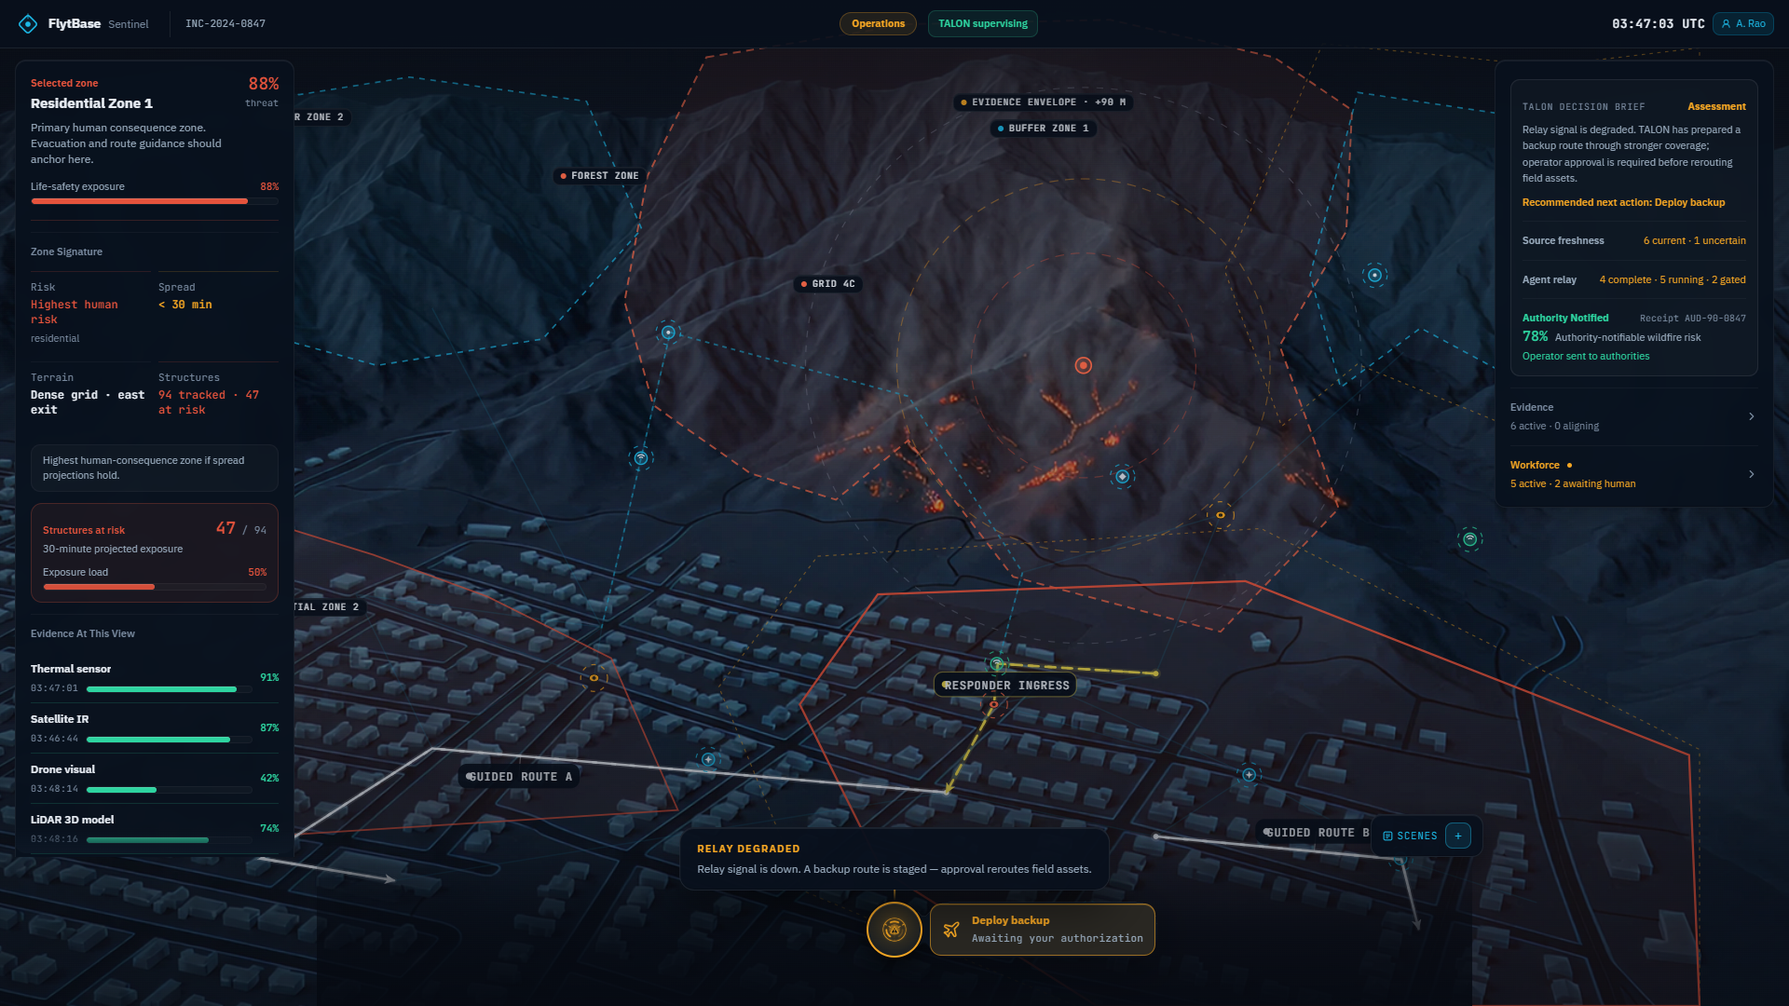
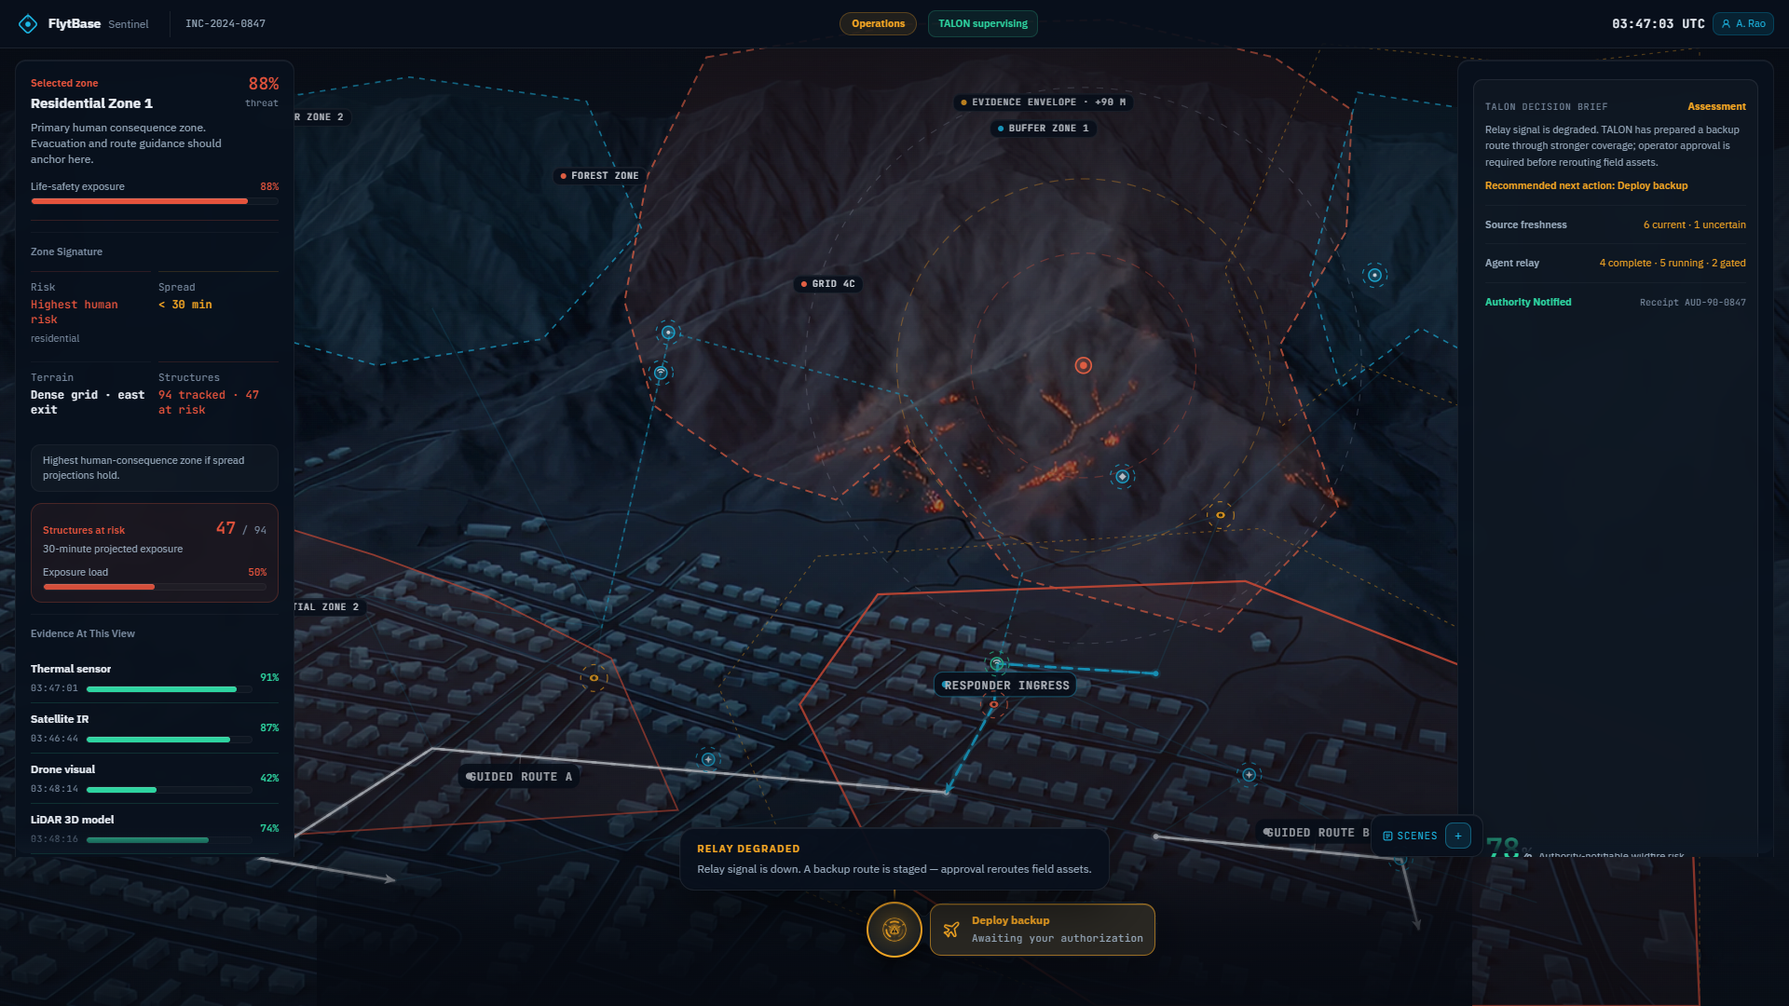
M4 craft: yellow retired (3-lead palette), tnum on mono telemetry, asymmetric rail widths, right-rail focal 32px packet %, navbar chip recipe consolidated, map atmosphere strengthened, hardcoded zIndex -> layer.*, rail tab labels truncate

diff --git a/src/app/components/SentinelShell.tsx b/src/app/components/SentinelShell.tsx
@@ -84,6 +84,13 @@ import {
 
 const SCREEN_INSET = shellTokens.screenInset;
 const NAVBAR_H = shellTokens.navHeight;
+/*
+ * The two rails have different jobs and different densities. The TALON rail
+ * (right) is the protagonist — the copilot brief, workforce, and the densest
+ * evidence summaries. The observation rail (left) is supporting — the operator
+ * inspects there. Same width at narrow viewports (readability first); width is
+ * the cheapest hierarchy there is.
+ */
 const LEFT_RAIL_W = shellTokens.railWidth;
 const RIGHT_RAIL_W = shellTokens.railWidth;
 const PANEL_TOP = NAVBAR_H + shellTokens.railGap + 4;
@@ -202,6 +209,8 @@ export function SentinelShell() {
 
   const adaptiveRailWidth =
     viewportWidth <= 1280 ? 260 : viewportWidth <= 1366 ? 280 : LEFT_RAIL_W;
+  const adaptiveTalonRailWidth =
+    viewportWidth <= 1280 ? 260 : viewportWidth <= 1366 ? 300 : 340;
 
   usePopoverDismissal({
     open: timelineOpen,
@@ -968,7 +977,7 @@ export function SentinelShell() {
           position: "absolute",
           top: PANEL_TOP,
           right: SCREEN_INSET,
-          width: adaptiveRailWidth,
+          width: adaptiveTalonRailWidth,
           bottom: railBottomInset,
           zIndex: layer.rail,
           display: "flex",
@@ -1864,7 +1873,7 @@ function TopOverlay({
         left: "50%",
         transform: "translateX(-50%)",
         width: 560,
-        zIndex: 50,
+        zIndex: layer.alert,
         ...material.overlay,
         border: `1px solid ${tone}4D`,
         padding: "14px 18px 14px 22px",
@@ -1951,7 +1960,7 @@ function CompactPanel({
         width: 440,
         maxHeight: `calc(100dvh - ${NAVBAR_H + 26 + shellTokens.screenInset + 160}px)`,
         overflowY: "auto",
-        zIndex: 50,
+        zIndex: layer.alert,
         ...material.overlay,
         // Severity still arrives on the border; the material never changes.
         border: `1px solid ${tone}4D`,
@@ -2033,7 +2042,7 @@ function AlertPopup({ onDispatch, onDismiss }: { onDispatch: () => void; onDismi
         left: "50%",
         transform: "translateX(-50%)",
         width: 520,
-        zIndex: 60,
+        zIndex: layer.modal,
         ...material.overlay,
         border: `1px solid ${T.amber}44`,
         padding: "20px 22px 18px",
@@ -2331,7 +2340,7 @@ function VerifyLiveFeed({
         left: railWidth + SCREEN_INSET + 18,
         right: railWidth + SCREEN_INSET + 18,
         bottom: bottomInset,
-        zIndex: 25,
+        zIndex: layer.centerSurface,
         borderRadius: radius.overlay,
         overflow: "hidden",
         border: mapLoaded
@@ -2853,7 +2862,7 @@ function deriveQuickActions(draft: ShellDraft, investigationElapsed: number): Ac
           "Thermal + LiDAR drone monitors the active fire edge.", T.red, true),
         mk("stage-responder-guidance", "Guide responders",
           zoneRequired ? "disabled" : missionByZone("guide-emergency-personnel") ? "complete" : responderRecommended ? "recommended" : "available",
-          "Ingress guidance and live relay support for field personnel.", T.yellow, true),
+          "Ingress guidance and live relay support for field personnel.", T.cyan, true),
         mk("stage-residential-evacuation", "Prepare evacuation",
           zoneRequired ? "disabled" : missionByZone("prepare-residential-evacuation") ? "complete" : evacRecommended ? "recommended" : "available",
           "Civilian-guidance drone with speakers and lighting.", T.fire, true),
@@ -2919,7 +2928,7 @@ function deriveQuickActions(draft: ShellDraft, investigationElapsed: number): Ac
           "Drone-guided egress path with speakers and lighting for residents.", T.cyan),
         mk("deploy-navigation-drone", "Guide personnel",
           draft.responderRouteActive ? "complete" : "recommended",
-          "Responder-guidance drone via safest ingress corridor.", T.yellow),
+          "Responder-guidance drone via safest ingress corridor.", T.cyan),
         mk("notify-teams", "Notify teams", draft.teamsNotified ? "complete" : "available",
           "Reconfirm field team staging readiness.", T.textSecondary),
       ];

diff --git a/src/app/pages/ComponentsPage.tsx b/src/app/pages/ComponentsPage.tsx
@@ -69,7 +69,7 @@ export default function ComponentsPage() {
                   <div style={{ display: "flex", flexWrap: "wrap", gap: 12 }}>
                     <ActionTile label="Deploy survey"    status="recommended" tone={T.cyan}   />
                     <ActionTile label="Stage perimeter"  status="available"   tone={T.red}    />
-                    <ActionTile label="Guide responders" status="available"   tone={T.yellow} />
+                    <ActionTile label="Guide responders" status="available"   tone={T.cyan} />
                     <ActionTile label="Prepare evacuation" status="disabled"  tone={T.fire}   />
                     <ActionTile label="Relay field intel" status="available"  tone={T.cyan}   />
                   </div>
@@ -93,7 +93,7 @@ export default function ComponentsPage() {
                   <div style={{ fontSize: 11, color: T.textMuted, marginBottom: 8 }}>Primary Row</div>
                   <div style={{ display: "flex", gap: 12 }}>
                     <ActionTile label="Residential evac drone" status="recommended" tone={T.cyan}          />
-                    <ActionTile label="Guide personnel"        status="recommended" tone={T.yellow}        />
+                    <ActionTile label="Guide personnel"        status="recommended" tone={T.cyan}        />
                     <ActionTile label="Deploy backup"          status="recommended" tone={T.amber}  note="signal-degraded" />
                   </div>
                 </div>
@@ -216,8 +216,8 @@ export default function ComponentsPage() {
               </div>
               <div>
                 <SubLabel>5. Notify Teams</SubLabel>
-                <InlineModal title="Alert Ground Teams" subtitle="Notify teams with current assignments and staging instructions." accentColor={T.yellow} confirmLabel="Confirm Alert" icon="📋">
-                  <div style={{ background: "rgba(255,209,102,0.07)", border: `1px solid ${T.yellow}22`, borderRadius: 12, padding: "12px 14px" }}>
+                <InlineModal title="Alert Ground Teams" subtitle="Notify teams with current assignments and staging instructions." accentColor={T.cyan} confirmLabel="Confirm Alert" icon="📋">
+                  <div style={{ background: "rgba(28,184,230,0.07)", border: `1px solid ${T.cyan}22`, borderRadius: 12, padding: "12px 14px" }}>
                     {[{ t: "Alpha Lead", d: "Perimeter control – Forest North" }, { t: "Bravo Team", d: "Structure protect – Buffer East" }, { t: "Charlie", d: "Medical & route support – Standby" }].map(({ t, d }) => (
                       <div key={t} style={{ display: "flex", justifyContent: "space-between", padding: "7px 0", borderBottom: "1px solid rgba(255,255,255,0.05)" }}>
                         <span style={{ fontFamily: font.sans, fontSize: 12, fontWeight: 600, color: T.textPrimary }}>{t}</span>
@@ -397,7 +397,7 @@ export default function ComponentsPage() {
               { name: "Red",           value: T.red,           usage: "Danger, contain mode, abort" },
               { name: "Fire",          value: T.fire,          usage: "Emergency, rescue mode, evacuation" },
               { name: "Teal",          value: T.teal,          usage: "Safe, available, complete states" },
-              { name: "Yellow",        value: T.yellow,        usage: "Ground teams, field coordination" },
+              { name: "Cyan (guidance)", value: T.cyan,        usage: "Ground teams, field coordination" },
               { name: "Text Primary",  value: T.textPrimary,   usage: "Headlines, labels, active values" },
               { name: "Text Secondary",value: T.textSecondary, usage: "Body text, descriptions, captions" },
               { name: "Text Muted",    value: T.textMuted,     usage: "Timestamps, section labels, disabled" },

diff --git a/src/app/components/ActionModal.tsx b/src/app/components/ActionModal.tsx
@@ -54,7 +54,7 @@ export const MISSION_BRIEF_DATA: Partial<Record<QuickActionId, MissionBriefConfi
     talonRationale: "A relay-guidance asset marks the safest responder ingress corridor. The eastern buffer lane has the clearest terrain and the best signal strength for live relay back to command.",
     coverageNote: "Relay-01 will anchor at the buffer zone ingress point and broadcast a combined audio + light guidance signal for incoming teams.",
     zoneHint: "buffer-east",
-    tone: T.yellow,
+    tone: T.cyan,
     droneClass: "guidance-relay",
     defaultZoneId: "buffer-east",
   },
@@ -84,7 +84,7 @@ export const MISSION_BRIEF_DATA: Partial<Record<QuickActionId, MissionBriefConfi
     talonRationale: "Active rescue operations require a dedicated navigation drone along the primary responder corridor. The eastern buffer has the clearest ingress lane, confirmed by TALON terrain analysis.",
     coverageNote: "Relay-01 will fly the corridor marking the route with strobe signaling and live audio comms for field team coordination.",
     zoneHint: "buffer-east",
-    tone: T.yellow,
+    tone: T.cyan,
     droneClass: "guidance-relay",
     defaultZoneId: "buffer-east",
   },
@@ -457,7 +457,7 @@ function EvacuationModal({ state, onClose, onConfirm }: { state: ShellState; onC
             <Label>Select Teams to Deploy</Label>
             <div style={{ display: "flex", flexWrap: "wrap", gap: 8 }}>
               {state.groundTeams.map((t) => (
-                <Chip key={t.id} label={t.name} selected={selectedTeamIds.includes(t.id)} onClick={() => toggleTeam(t.id)} color={T.yellow} />
+                <Chip key={t.id} label={t.name} selected={selectedTeamIds.includes(t.id)} onClick={() => toggleTeam(t.id)} color={T.cyan} />
               ))}
             </div>
           </div>
@@ -722,10 +722,10 @@ function NotifyAuthoritiesModal({ onClose, onConfirm }: { onClose: () => void; o
 function NotifyTeamsModal({ onClose, onConfirm }: { onClose: () => void; onConfirm: () => void }) {
   return (
     <div>
-      <ModalHeader title="Alert Ground Teams" subtitle="Notify teams with current assignments and staging instructions." accentColor={T.yellow} icon={<OperationalIcon actionId="notify-teams" color={T.yellow} size={18} />} />
+      <ModalHeader title="Alert Ground Teams" subtitle="Notify teams with current assignments and staging instructions." accentColor={T.cyan} icon={<OperationalIcon actionId="notify-teams" color={T.cyan} size={18} />} />
 
       <div style={{ padding: "16px 24px" }}>
-        <div style={{ background: tint(T.yellow, 0.07), border: `1px solid ${tint(T.yellow, 0.28)}`, borderRadius: radius.panel, padding: "14px" }}>
+        <div style={{ background: tint(T.cyan, 0.07), border: `1px solid ${tint(T.cyan, 0.28)}`, borderRadius: radius.panel, padding: "14px" }}>
           {[
             { team: "Alpha Lead", detail: "Perimeter control – Forest North" },
             { team: "Bravo Team", detail: "Structure protection – Buffer East" },
@@ -740,7 +740,7 @@ function NotifyTeamsModal({ onClose, onConfirm }: { onClose: () => void; onConfi
       </div>
 
       <Divider />
-      <ModalFooter onClose={onClose} onConfirm={onConfirm} confirmLabel="Confirm Alert" confirmColor={T.yellow} />
+      <ModalFooter onClose={onClose} onConfirm={onConfirm} confirmLabel="Confirm Alert" confirmColor={T.cyan} />
     </div>
   );
 }

diff --git a/src/app/components/panels/TalonCopilotPanel.tsx b/src/app/components/panels/TalonCopilotPanel.tsx
@@ -35,7 +35,7 @@ function getStatusColor(status: EvidenceSource["status"]): string {
   switch (status) {
     case "active": return T.teal;
     case "pending": return T.textMuted;
-    case "stale": return T.yellow;
+    case "stale": return T.amber;
     case "failed": return T.red;
     case "missing": return T.red;
     default: return T.textMuted;
@@ -445,7 +445,7 @@ function getCategoryMeta(category: TalonAgentTask["category"]) {
     case "operations":
       return { label: "Operations", color: T.red, fill: tone.danger.fill, border: tone.danger.border };
     case "governance":
-      return { label: "Governance", color: T.yellow, fill: tone.caution.fill, border: tone.caution.border };
+      return { label: "Governance", color: T.amber, fill: tone.caution.fill, border: tone.caution.border };
     default:
       return { label: "Agent", color: T.textMuted, fill: tone.neutral.fill, border: tone.neutral.border };
   }
@@ -1462,8 +1462,25 @@ function IntelligenceBrief({
           </div>
 
           <div style={{ display: "flex", alignItems: "baseline", gap: space.sm, marginBottom: space.xs }}>
-            <span style={{ fontFamily: font.mono, fontSize: typeScale.subhead, fontWeight: typeWeight.heavy, color: packetTone, lineHeight: 1 }}>
-              {packet.confidence}%
+            {/*
+              * Focal contract: the right rail's lone ≥26px read. A 32px
+              * packet confidence survives the portfolio's ~0.65× downscale at
+              * ~20px, which is the read that the rest of the rail honestly
+              * recedes around.
+              */}
+            <span
+              style={{
+                fontFamily: font.mono,
+                fontFeatureSettings: '"tnum"',
+                fontSize: 32,
+                lineHeight: 36,
+                fontWeight: typeWeight.heavy,
+                color: packetTone,
+                letterSpacing: "-0.02em",
+              }}
+            >
+              {packet.confidence}
+              <span style={{ fontSize: 18, lineHeight: 1, marginLeft: 2, color: T.textSecondary, fontWeight: typeWeight.semibold }}>%</span>
             </span>
             <span style={{ fontFamily: font.sans, fontSize: typeScale.label, color: T.textSecondary, lineHeight: 1.4 }}>
               {packet.escalationLevel}

diff --git a/src/app/map/SpatialMapCanvas.tsx b/src/app/map/SpatialMapCanvas.tsx
@@ -391,10 +391,10 @@ export function SpatialMapCanvas({
 
   const mapFilter =
     showContain || showRescue
-      ? "saturate(0.96) brightness(0.84)"
+      ? "saturate(0.92) brightness(0.78)"
       : isPreVerify
-        ? "saturate(0.6) brightness(0.6) hue-rotate(180deg)"
-        : "saturate(0.92) brightness(0.74)";
+        ? "saturate(0.58) brightness(0.54) hue-rotate(180deg)"
+        : "saturate(0.86) brightness(0.66)";
 
   const adjustZoneMargin = (delta: number) => {
     if (!onUpdateState || !activeZoneId) return;
@@ -638,7 +638,7 @@ export function SpatialMapCanvas({
           position: "absolute",
           inset: 0,
           pointerEvents: "none",
-          background: `linear-gradient(to bottom, ${tint(T.bgMap, 0.62)} 0%, ${tint(T.bgMap, 0.34)} 18%, ${tint(T.bgMap, 0.08)} 42%, transparent 62%)`,
+          background: `linear-gradient(to bottom, ${tint(T.bgMap, 0.72)} 0%, ${tint(T.bgMap, 0.42)} 18%, ${tint(T.bgMap, 0.12)} 42%, transparent 60%)`,
         }}
       />
       <div
@@ -647,7 +647,7 @@ export function SpatialMapCanvas({
           position: "absolute",
           inset: 0,
           pointerEvents: "none",
-          background: `radial-gradient(ellipse 78% 72% at 50% 46%, transparent 38%, ${tint(T.bgMap, 0.5)} 100%)`,
+          background: `radial-gradient(ellipse 72% 66% at 50% 44%, transparent 30%, ${tint(T.bgMap, 0.62)} 100%)`,
         }}
       />
 
@@ -770,7 +770,7 @@ export function SpatialMapCanvas({
         {showResponderRoute && responderNamedRoute && (
           <RouteLine
             path={routeToSvgPath(responderNamedRoute)}
-            color={T.yellow}
+            color={T.cyan}
             label="RESPONDER INGRESS"
             variant="ingress"
             animate={!reducedMotion}

diff --git a/src/app/components/Navbar.tsx b/src/app/components/Navbar.tsx
@@ -1,6 +1,6 @@
 import { useEffect, useRef, useState, type RefObject } from "react";
 import { FOCUSED_INCIDENT_QUEUE, INCIDENT, getIncidentQueueItem } from "../mockData";
-import { WORKFLOW_META, ShellState, T, border, font, radius, space, surface, tint, tracking, typeScale, typeStyle, typeWeight } from "../tokens";
+import { WORKFLOW_META, ShellState, T, border, font, motion, radius, space, surface, tint, tracking, typeScale, typeStyle, typeWeight } from "../tokens";
 import { OperationalIcon } from "./OperationalIcon";
 import { PopoverSurface, usePopoverDismissal } from "./shared/PopoverSurface";
 
@@ -715,17 +715,28 @@ function SettingsRow({
   );
 }
 
+/*
+ * The one navbar chip recipe. The previous implementation had nine mixed chip
+ * languages (border, fill, radius, padding, font, color) fighting each other
+ * across one row — the navbar was the highest-frequency surface in the case
+ * study and the loudest demonstration of "no system". One recipe, three
+ * clusters, dividers only between clusters.
+ */
 const navBtnStyle: React.CSSProperties = {
-  background: "rgba(255,255,255,0.04)",
-  border: "1px solid rgba(255,255,255,0.08)",
+  background: surface.control,
+  border: `1px solid ${border.default}`,
   borderRadius: radius.control,
-  padding: "6px 10px",
+  padding: `5px ${space.sm}px`,
   fontFamily: font.sans,
   fontSize: typeScale.label,
+  fontWeight: typeWeight.semibold,
   color: T.textSecondary,
   cursor: "pointer",
   display: "flex",
   alignItems: "center",
   gap: 6,
   flexShrink: 0,
+  height: 30,
+  letterSpacing: tracking.fine,
+  transition: `background ${motion.fast}, border-color ${motion.fast}, color ${motion.fast}`,
 };

diff --git a/src/app/domain/microcopy.ts b/src/app/domain/microcopy.ts
@@ -50,7 +50,7 @@ export const TALON_CHIP_RESPONSES: Record<TalonChipId, { title: string; body: st
   "what-missing": {
     title: "Data gaps remain",
     body: "Ground moisture is stale, aerial visual is smoke-obscured, and fuel load survey is not current. TALON keeps these gaps visible before escalation.",
-    tone: T.yellow,
+    tone: T.amber,
   },
   "show-alternate": {
     title: "Alternate plan prepared",
@@ -158,12 +158,12 @@ export const TALON_VOICE_RESPONSES: Partial<Record<SceneId, { title: string; bod
   "network-degraded": {
     title: "Low-bandwidth mode — commands are slower",
     body: "Network latency is at 340ms. I've dropped HD video streams and shifted to lightweight LiDAR vector outlines. Evidence fusion is running but slower. I'm keeping all field-authorization gates blocked until source freshness meets minimum threshold. What do you need from me?",
-    tone: T.yellow,
+    tone: T.amber,
   },
   "satellite-feed-loss": {
     title: "Satellite offline — drone and thermal coverage only",
     body: "Satellite IR is unavailable. I've reweighted the evidence model toward drone telemetry and ground thermal. Spatial model confidence dropped to 40% — spread margin is now ±200m instead of ±80m. I can continue operations with this reduced certainty, but I recommend expanding drone coverage to compensate.",
-    tone: T.yellow,
+    tone: T.amber,
   },
   "infrastructure-total-loss": {
     title: "Core systems offline — manual protocol required",

diff --git a/src/app/components/shared/RailStack.tsx b/src/app/components/shared/RailStack.tsx
@@ -155,7 +155,8 @@ export function RailStack({ views, defaultViewId, ariaLabel }: { views: RailView
                 onClick={() => pinView(v.id)}
                 onKeyDown={(event) => handleTabKeyDown(event, index)}
                 style={{
-                  flex: 1,
+                  flex: "0 1 auto",
+                  minWidth: 0,
                   display: "flex",
                   alignItems: "center",
                   justifyContent: "center",
@@ -171,9 +172,17 @@ export function RailStack({ views, defaultViewId, ariaLabel }: { views: RailView
                   fontSize: typeScale.caption,
                   fontWeight: typeWeight.semibold,
                   cursor: "pointer",
+                  /*
+                   * Labels truncate before the strip pushes past its
+                   * container (the "Exce…" clip at 260px). Full name in
+                   * the tooltip and aria-label.
+                   */
+                  overflow: "hidden",
+                  textOverflow: "ellipsis",
                   whiteSpace: "nowrap",
                   transition: `background ${motion.fast}, color ${motion.fast}`,
                 }}
+                title={v.label}
               >
                 {v.label}
                 {v.badge ? (

diff --git a/src/app/pages/DesignSystemPage.tsx b/src/app/pages/DesignSystemPage.tsx
@@ -38,7 +38,7 @@ const colorTokens = [
   { name: "red", value: T.red, usage: "Containment, danger, abort, and blocked authority." },
   { name: "fire", value: T.fire, usage: "Rescue, evacuation, and high-consequence actions." },
   { name: "teal", value: T.teal, usage: "Monitoring, safe states, and completed actions." },
-  { name: "yellow", value: T.yellow, usage: "Ground-team guidance and field coordination." },
+  { name: "yellow", value: T.cyan, usage: "Ground-team guidance and field coordination." },
   { name: "textPrimary", value: T.textPrimary, usage: "Headlines, active labels, and selected values." },
   { name: "textSecondary", value: T.textSecondary, usage: "Body copy, descriptions, and helper text." },
   { name: "textMuted", value: T.textMuted, usage: "Telemetry labels, timestamps, and quiet metadata." },

diff --git a/src/app/domain/commands.ts b/src/app/domain/commands.ts
@@ -110,7 +110,7 @@ export const COMMAND_DEFINITIONS: Record<QuickActionId, CommandDefinition> = {
     riskLevel: "high",
     gate: "confirm",
     modal: "mission",
-    tone: T.yellow,
+    tone: T.cyan,
   }),
   "stage-residential-evacuation": definition("stage-residential-evacuation", {
     shortLabel: "Evac prep",
@@ -207,7 +207,7 @@ export const COMMAND_DEFINITIONS: Record<QuickActionId, CommandDefinition> = {
     riskLevel: "high",
     gate: "confirm",
     modal: "mission",
-    tone: T.yellow,
+    tone: T.cyan,
   }),
   "deploy-backup": definition("deploy-backup", {
     shortLabel: "Backup",

diff --git a/src/app/components/panels/LeftPanel.tsx b/src/app/components/panels/LeftPanel.tsx
@@ -99,7 +99,7 @@ export function IntelPanel({ state, onClearSelection }: IntelPanelProps) {
     <PanelCard
       title="Context Inspector"
       badgeLabel={badge}
-      badgeColor={selectedZone?.boundaryColor ?? (selectedDrone ? T.cyan : selectedTeam ? T.yellow : selectedAnomaly ? T.fire : T.teal)}
+      badgeColor={selectedZone?.boundaryColor ?? (selectedDrone ? T.cyan : selectedTeam ? T.cyan : selectedAnomaly ? T.fire : T.teal)}
       actionLabel={hasSelection ? "Clear" : undefined}
       onAction={hasSelection ? onClearSelection : undefined}
     >

diff --git a/src/app/domain/talon.ts b/src/app/domain/talon.ts
@@ -929,7 +929,7 @@ export function getTalonRecommendation(state: ShellState): TalonRecommendationCo
     "network-degraded": {
       text: "Network latency is high. TALON is using low-bandwidth telemetry and keeping authorization gates blocked until source freshness improves.",
       action: "Relay field intel",
-      tone: T.yellow,
+      tone: T.cyan,
     },
     "contain-degraded": {
       text: "Terrain model is degraded. TALON is widening the spread buffer and keeping raw feed fallback visible before operations authorization.",
